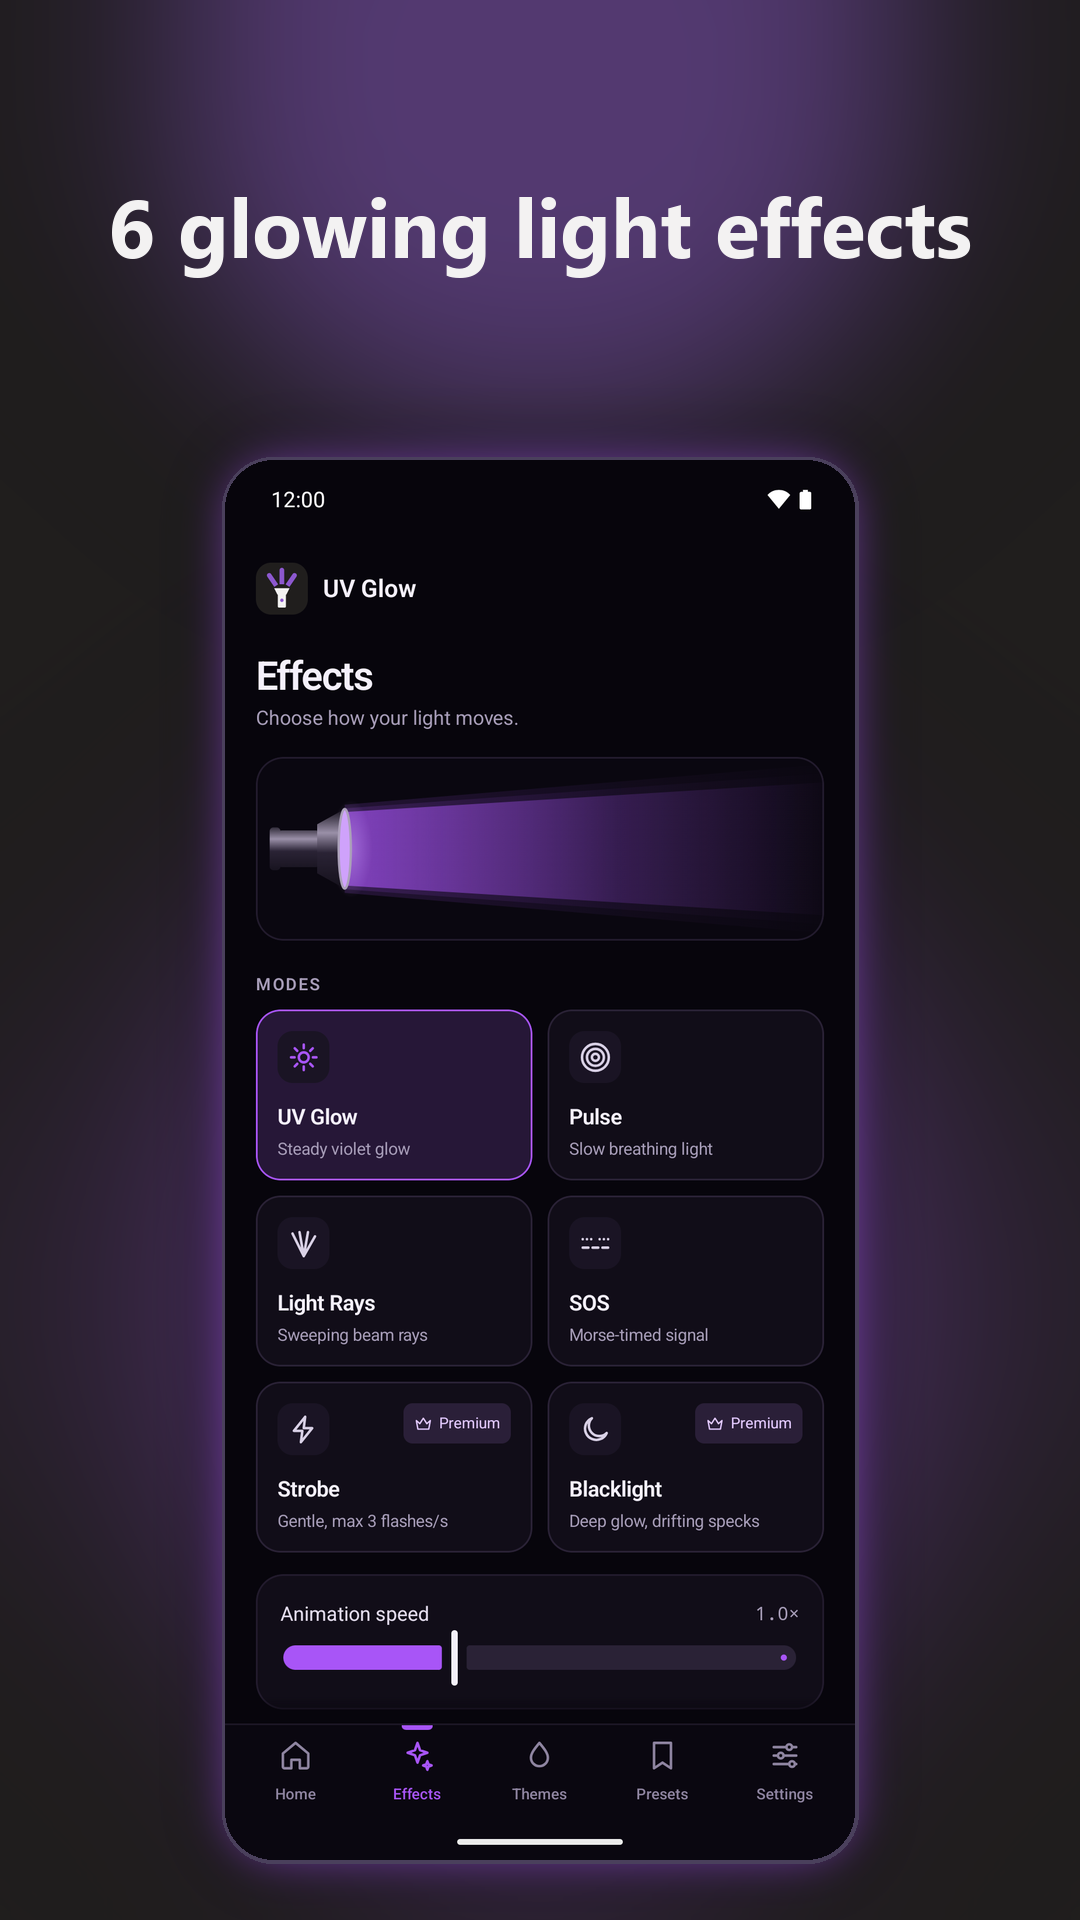
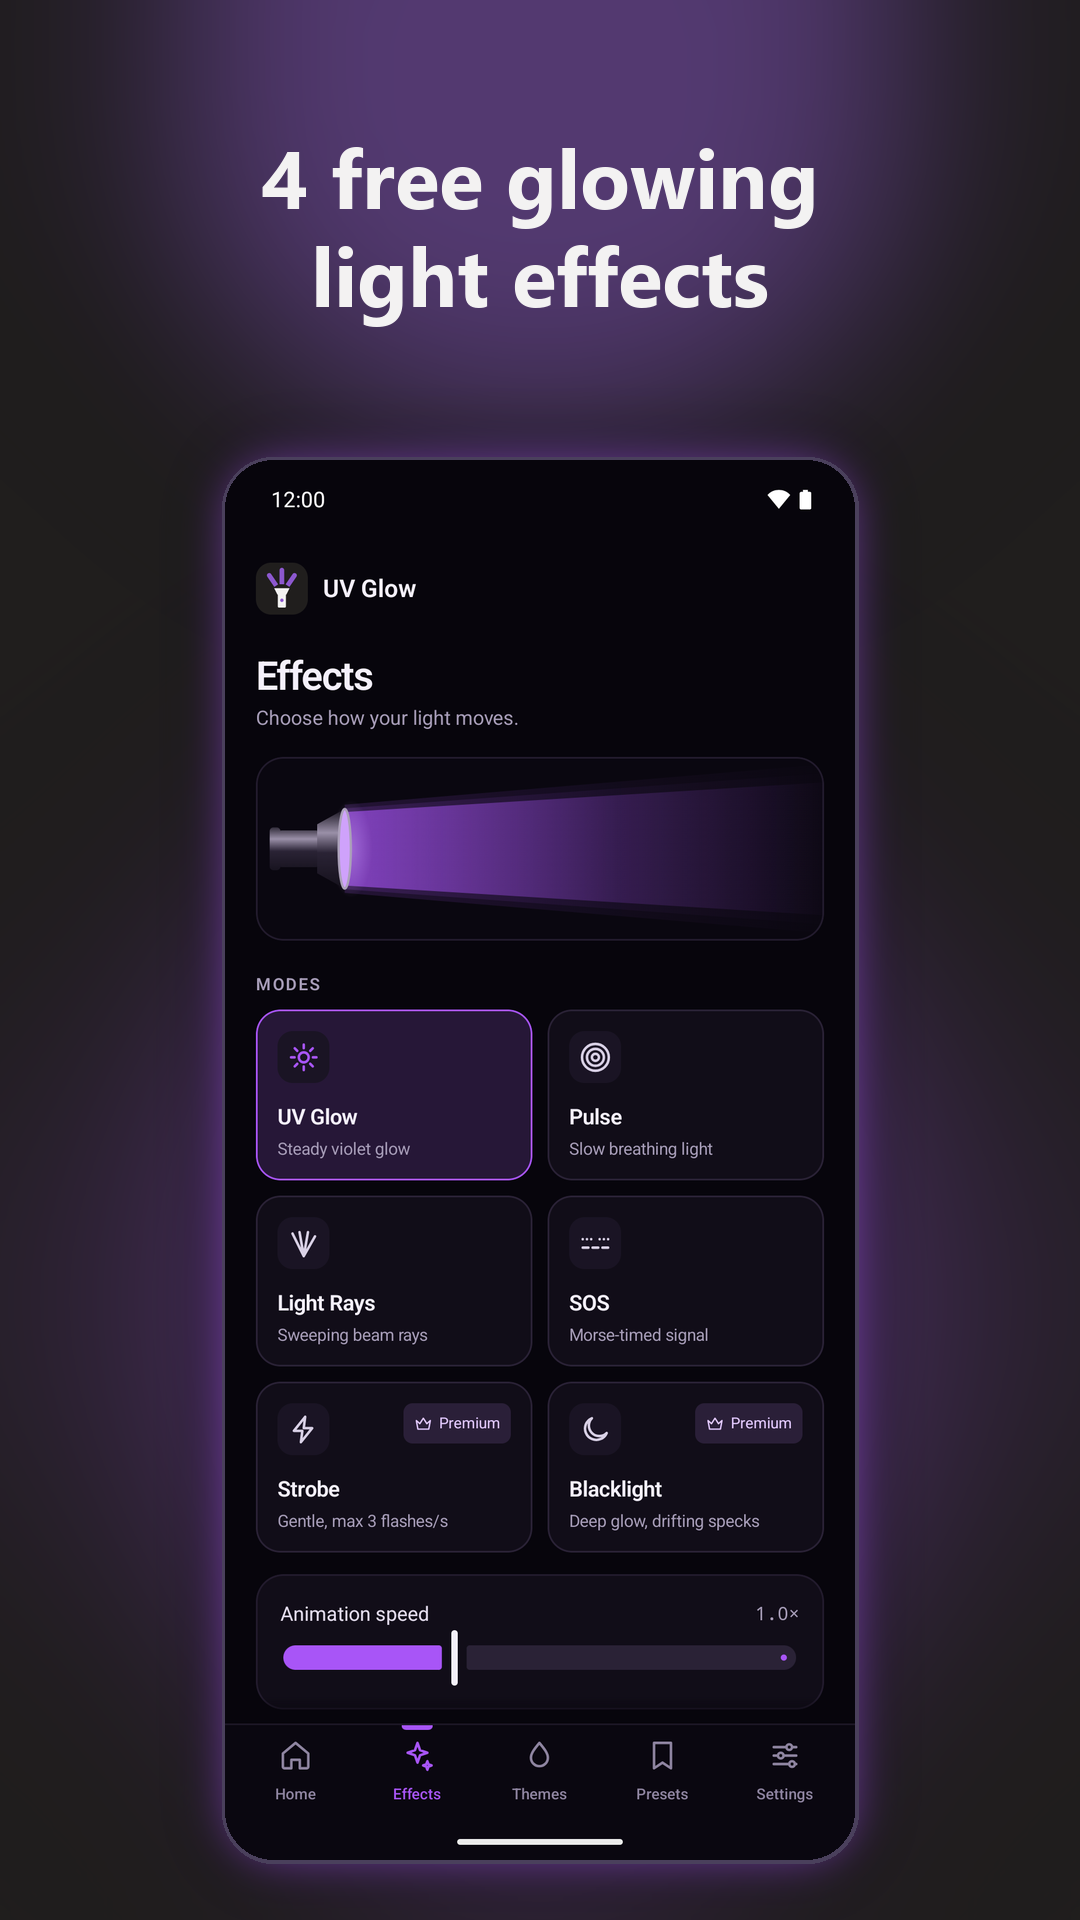
Store captions: "4 free glowing light effects", "Simple to use, no account needed"
Strobe and Blacklight are Premium (not on sale in 1.0.0), and AdMob ads
collect the advertising ID, so the old "6 glowing light effects" and
"Simple, private, no account" could read as misleading. Caption wrapping
now prefers a break after a comma when both lines fit.

Changed region(s): [[0.0917, 0.0625, 0.9167, 0.1875]]

diff --git a/docs/store/make_store_images.py b/docs/store/make_store_images.py
@@ -38,11 +38,11 @@ WHITE = (0xF3, 0xF2, 0xF2)
 
 SCREENS = [
     ("01-home", "Instant violet glow screen light"),
-    ("02-effects", "6 glowing light effects"),
+    ("02-effects", "4 free glowing light effects"),
     ("03-themes", "Pick your colour theme"),
     ("04-presets", "Save your favourite presets"),
     ("05-timer", "Auto-off timer saves battery"),
-    ("06-settings", "Simple, private, no account"),
+    ("06-settings", "Simple to use, no account needed"),
 ]
 TITLE = "UV Glow"
 TAGLINE = "Violet screen light & flashlight"
@@ -78,12 +78,15 @@ def rounded(image: Image.Image, radius: int) -> Image.Image:
 
 
 def wrap(draw: ImageDraw.ImageDraw, text: str, fnt, max_width: int) -> list[str]:
-    """One line if it fits, else the two-line split whose longer line is shortest (balanced)."""
+    """One line if it fits; else break after a comma if both lines fit, otherwise the balanced split
+    (the one whose longer line is shortest)."""
     if draw.textlength(text, font=fnt) <= max_width:
         return [text]
     words = text.split()
     splits = [(" ".join(words[:i]), " ".join(words[i:])) for i in range(1, len(words))]
-    return list(min(splits, key=lambda s: max(draw.textlength(s[0], font=fnt), draw.textlength(s[1], font=fnt))))
+    widest = lambda s: max(draw.textlength(s[0], font=fnt), draw.textlength(s[1], font=fnt))
+    at_comma = [s for s in splits if s[0].endswith(",") and widest(s) <= max_width]
+    return list(min(at_comma or splits, key=widest))
 
 
 def framed(raw_path: Path, caption: str, out_path: Path) -> None:
